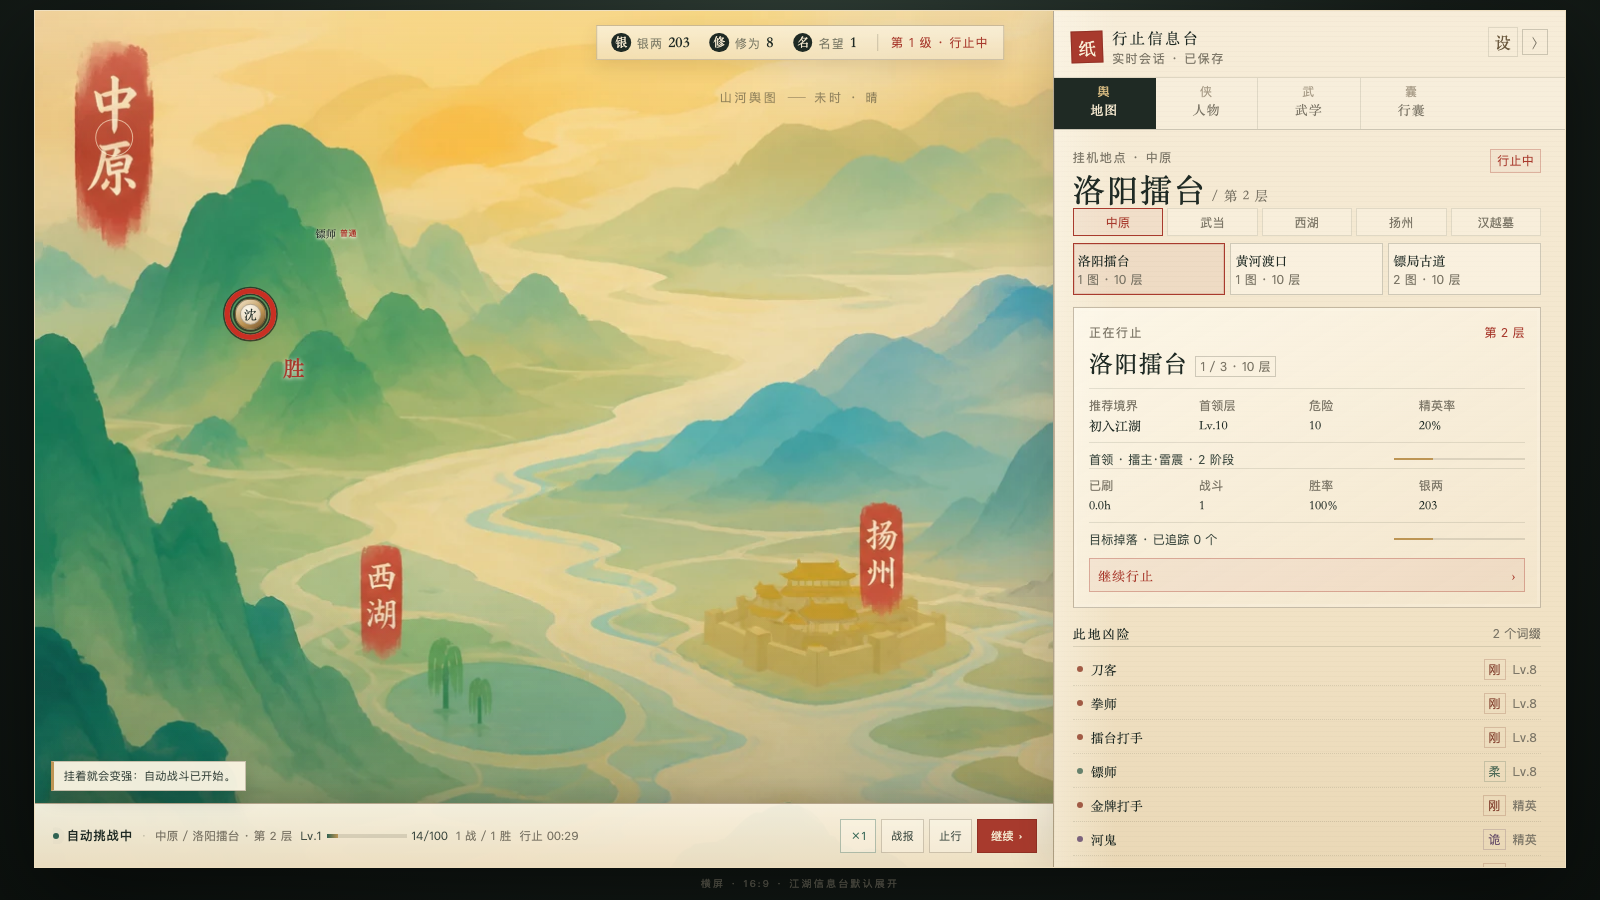
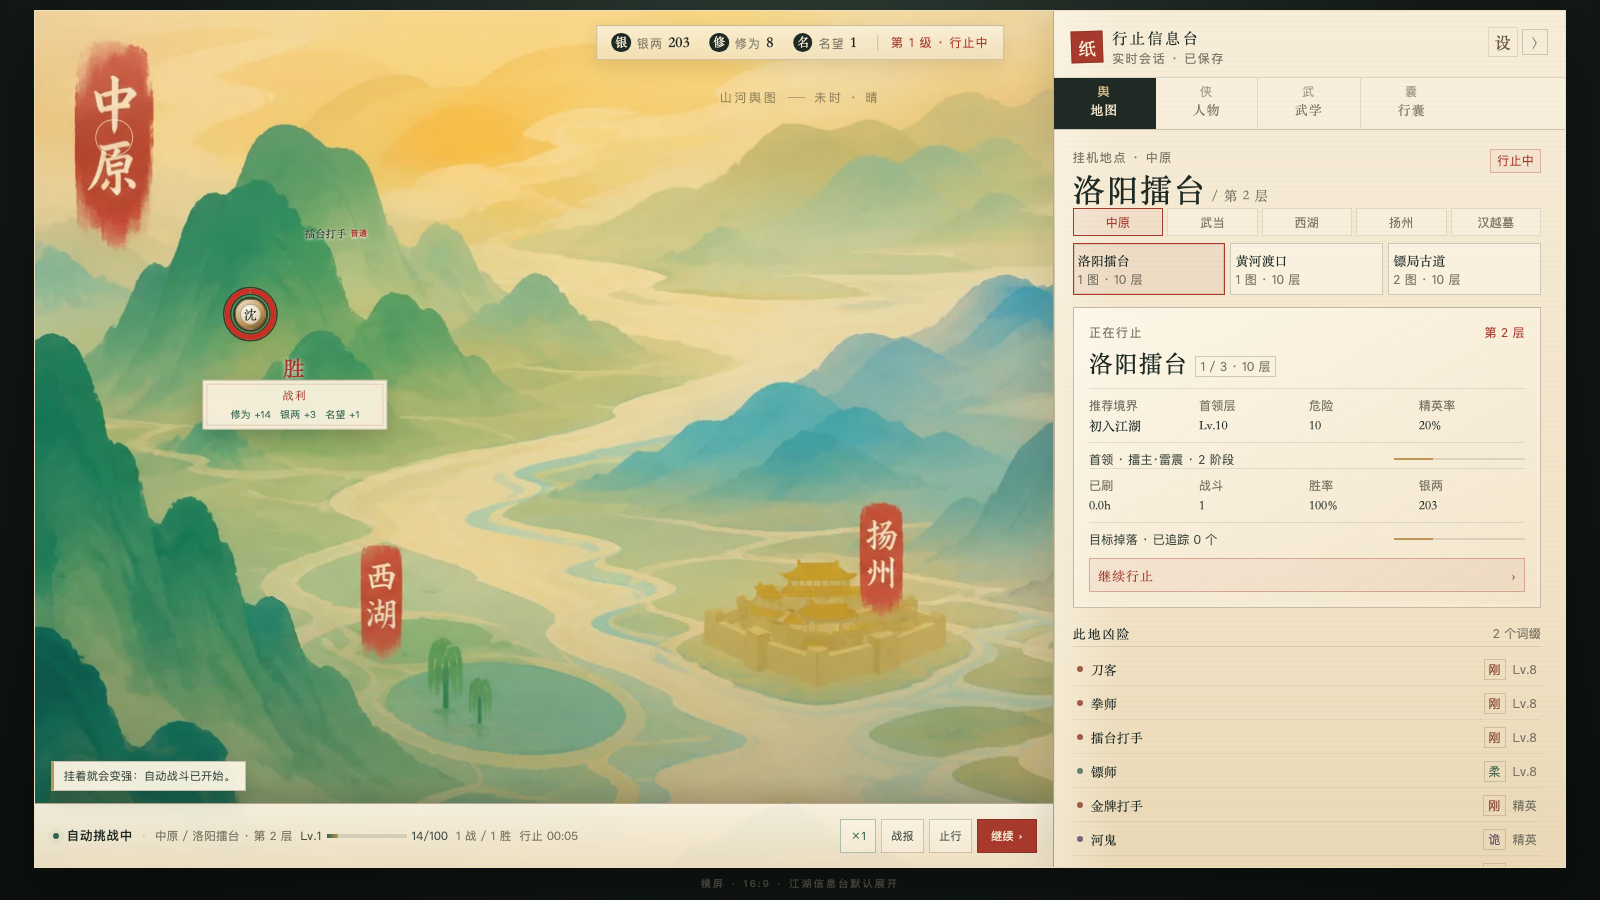
ui: pulse HUD resources and XP when rewards land

Changed region(s): [[0.125, 0.4044, 0.25, 0.4978], [0.1875, 0.2489, 0.2188, 0.28]]

diff --git a/src/ui/App.tsx b/src/ui/App.tsx
@@ -92,6 +92,10 @@ function App() {
   const [battleLogOpen, setBattleLogOpen] = useState(false);
   const lastMapRef = useRef<string | null>(null);
   const [startWizardOpen, setStartWizardOpen] = useState(false);
+  const [resourceFeedback, setResourceFeedback] = useState<{ key: number; silver: number; cultivation: number; renown: number } | null>(null);
+  const [xpFeedback, setXpFeedback] = useState<{ key: number; xp: number; levelUp: number } | null>(null);
+  const resourceRef = useRef({ silver: snapshot.silver, cultivation: snapshot.cultivation, renown: snapshot.renown, xp: snapshot.xp, level: snapshot.level });
+  const feedbackKey = useRef(0);
 
   useEffect(() => {
     applyUiSettings(settings);
@@ -151,6 +155,36 @@ function App() {
     window.setTimeout(() => setNotice(null), 2200);
   }
 
+  useEffect(() => {
+    const prev = resourceRef.current;
+    const silver = snapshot.silver - prev.silver;
+    const cultivation = snapshot.cultivation - prev.cultivation;
+    const renown = snapshot.renown - prev.renown;
+    const levelUp = snapshot.level - prev.level;
+    const xp = levelUp > 0 ? snapshot.xp : snapshot.xp - prev.xp;
+    resourceRef.current = {
+      silver: snapshot.silver,
+      cultivation: snapshot.cultivation,
+      renown: snapshot.renown,
+      xp: snapshot.xp,
+      level: snapshot.level,
+    };
+    const key = ++feedbackKey.current;
+    if (silver > 0 || cultivation > 0 || renown > 0) {
+      setResourceFeedback({ key, silver: Math.max(0, silver), cultivation: Math.max(0, cultivation), renown: Math.max(0, renown) });
+    }
+    if (xp > 0 || levelUp > 0) {
+      setXpFeedback({ key, xp: Math.max(0, xp), levelUp: Math.max(0, levelUp) });
+    }
+    if (silver > 0 || cultivation > 0 || renown > 0 || xp > 0 || levelUp > 0) {
+      const timer = window.setTimeout(() => {
+        setResourceFeedback(null);
+        setXpFeedback(null);
+      }, 1200);
+      return () => window.clearTimeout(timer);
+    }
+  }, [snapshot.silver, snapshot.cultivation, snapshot.renown, snapshot.xp, snapshot.level]);
+
   return (
     <div className="app-shell">
       <div className={`stage ${panelOpen ? "with-panel" : "no-panel"}`}>
@@ -159,12 +193,19 @@ function App() {
             <img src={background} alt="一纸江湖·山河舆图" />
             <div className="map-wash" />
             <div className="top-hud">
-              <div className="resource-bar" aria-label="资源">
+              <div className={`resource-bar ${resourceFeedback ? "gain" : ""}`} aria-label="资源">
                 <Resource label="银两" value={snapshot.silver} icon="银" />
                 <Resource label="修为" value={snapshot.cultivation} icon="修" />
                 <Resource label="名望" value={snapshot.renown} icon="名" />
                 <span className="rank-chip">第 {snapshot.level} 级 · {snapshot.active ? "行止中" : "已停"}</span>
               </div>
+              {resourceFeedback && (
+                <div className="resource-gain" key={resourceFeedback.key} role="status">
+                  {resourceFeedback.silver > 0 && <span>银两 +{n(resourceFeedback.silver)}</span>}
+                  {resourceFeedback.cultivation > 0 && <span>修为 +{n(resourceFeedback.cultivation)}</span>}
+                  {resourceFeedback.renown > 0 && <span>名望 +{n(resourceFeedback.renown)}</span>}
+                </div>
+              )}
             </div>
 
             <div className="map-caption">
@@ -236,10 +277,15 @@ function App() {
               <strong>{snapshot.active ? (snapshot.mode === "clear" ? "自动挑战中" : snapshot.mode === "survive" ? "守关中" : "护镖中") : "已停止"}</strong>
               <span className="status-sep">·</span>
               <span>{current.name} / {snapshot.mapName} · 第 {currentLayer} 层</span>
-              <span className="status-xp">
+              <span className={`status-xp ${xpFeedback ? "gain" : ""}`}>
                 <span>Lv.{snapshot.level}</span>
                 <i><b style={{ width: `${Math.min(100, Math.round((snapshot.xp / Math.max(1, snapshot.xpToNext)) * 100))}%` }} /></i>
                 <span>{snapshot.xp}/{snapshot.xpToNext}</span>
+                {xpFeedback && (
+                  <span className="xp-gain" key={xpFeedback.key}>
+                    {xpFeedback.levelUp > 0 ? `升级 +${xpFeedback.levelUp}` : `修为 +${n(xpFeedback.xp)}`}
+                  </span>
+                )}
               </span>
               <span className="status-fights">{snapshot.fights} 战 / {snapshot.wins} 胜</span>
               <span className="status-time">行止 {elapsedLabel(snapshot.elapsedHours)}</span>

diff --git a/src/ui/styles.css b/src/ui/styles.css
@@ -2222,3 +2222,64 @@ html[data-reduced-motion="true"] *, html[data-reduced-motion="true"] *::before, 
   0% { opacity: 0; transform: translateY(6px); }
   100% { opacity: 1; transform: translateY(0); }
 }
+/* HUD reward feedback: values and XP bar react when rewards land */
+.resource-bar.gain { animation: resource-bar-gain .7s ease-out; }
+.resource-gain {
+  position: absolute;
+  top: calc(100% + 5px);
+  left: 50%;
+  transform: translateX(-50%);
+  display: flex;
+  gap: 5px;
+  pointer-events: none;
+  white-space: nowrap;
+}
+.resource-gain span {
+  padding: 2px 6px;
+  color: var(--paper);
+  background: rgba(38, 47, 38, .92);
+  border: 1px solid rgba(255, 246, 224, .18);
+  font-family: var(--sans);
+  font-size: 9px;
+  font-variant-numeric: tabular-nums;
+  animation: resource-gain-rise 1.2s ease-out both;
+}
+@keyframes resource-bar-gain {
+  0%, 100% { box-shadow: 0 7px 18px rgba(69, 49, 21, .11); }
+  28% { box-shadow: 0 0 0 2px rgba(47, 98, 82, .22), 0 8px 22px rgba(69, 49, 21, .16); }
+}
+@keyframes resource-gain-rise {
+  0% { opacity: 0; transform: translateY(4px) scale(.94); }
+  18% { opacity: 1; transform: translateY(0) scale(1); }
+  78% { opacity: 1; }
+  100% { opacity: 0; transform: translateY(-9px); }
+}
+.status-xp { position: relative; }
+.status-main { overflow: visible; }
+.status-xp.gain > i > b { animation: xp-bar-gain 1s ease-out; }
+.xp-gain {
+  position: absolute;
+  left: 50%;
+  bottom: calc(100% + 3px);
+  transform: translateX(-50%);
+  color: var(--jade);
+  font-family: var(--sans);
+  font-size: 9px;
+  font-weight: 600;
+  white-space: nowrap;
+  pointer-events: none;
+  animation: xp-gain-float 1.15s ease-out both;
+}
+@keyframes xp-bar-gain {
+  0%, 100% { filter: none; }
+  30% { filter: brightness(1.6) drop-shadow(0 0 5px rgba(95, 143, 112, .8)); }
+}
+@keyframes xp-gain-float {
+  0% { opacity: 0; transform: translate(-50%, 4px); }
+  20% { opacity: 1; transform: translate(-50%, 0); }
+  78% { opacity: 1; }
+  100% { opacity: 0; transform: translate(-50%, -8px); }
+}
+@media (prefers-reduced-motion: reduce) {
+  .resource-bar.gain, .resource-gain span, .status-xp.gain > i > b, .xp-gain { animation: none !important; }
+}
